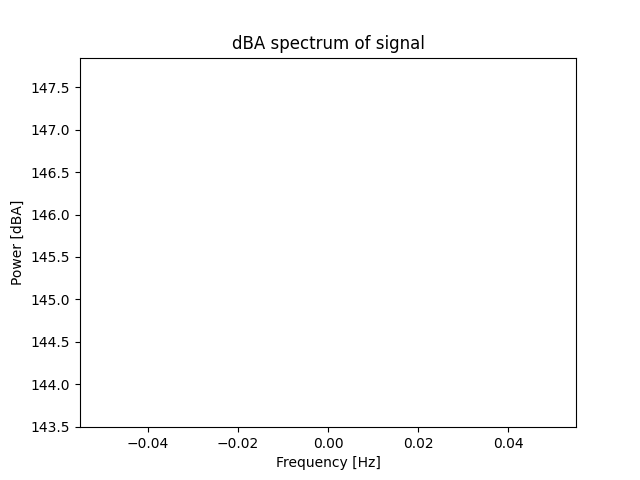
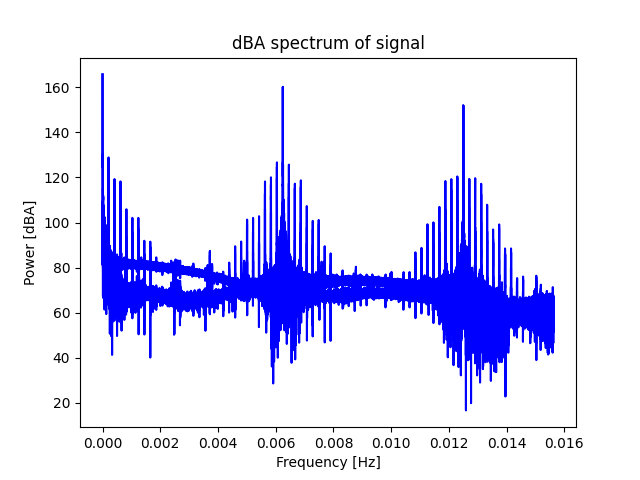
a

diff --git a/data_analyze_func.py b/data_analyze_func.py
@@ -21,7 +21,7 @@ Denne koden iterer gjennom alle lydfilene som finnes i en mappe og lagrer plotte
 v0 = 0.02
 directory = 'Opptaksfiler'
 directory_time = 'Opptaksfiler/OpptaksfilerTimer'
-antall_filer = 0
+
 antall_filer_time = 0
 L = 0
 L_eq = []
@@ -147,8 +147,10 @@ def plottName(name):
 
 
 def plot_frekvens():
+    antall_filer = 0
     for filename in arr_time:
-        if filename.endswith(".bin"): 
+        if filename.endswith(".bin"):
+            antall_filer += 1 
             print(os.path.join("./Opptaksfiler/OpptaksfilerTimer", filename))
             sample_period, data = raspi_import(os.path.join("./Opptaksfiler/OpptaksfilerTimer", filename))
             sample_period *= 1e-6  # change unit to micro seconds
@@ -160,6 +162,8 @@ def plot_frekvens():
             for i in range(len(freq)):
                 plt.stem(freq[i], dBA_plott[i])
             plt.show()
+
+            plt.savefig(plottName('graph' + str(antall_filer)))
         
             continue
         else:
@@ -171,8 +175,41 @@ plot_frekvens()
 
 
 
+def find_ekvivalens():
+    Leq_vec = []
+    time = []
+    t = 0
+    for filename in arr:
+        if filename.endswith(".bin"):
+            print(os.path.join("./Opptaksfiler", filename))
+            sample_period, data = raspi_import(os.path.join("./Opptaksfiler", filename))
+            sample_period *= 1e-6  # change unit to micro seconds
+            
+            tempLeq = ekvivalentniva_mv0(data, v0)
 
-''''''
+            Leq_vec.append(tempLeq)
+            t += 0.33
+            time.append(t)
+
+            continue
+        else:
+            continue
+    return Leq_vec, time
+
+def plott_ekvivalens():
+    L, t = find_ekvivalens()
+    plt.clf()
+    plt.title("Ekvivalentnivå")
+    plt.xlabel("Tid [s]")
+    plt.ylabel("Power [dB]")
+    plt.plot(t, L)
+  #  with open("fignummer.txt", "r") as file:
+  #          k = file.read()
+   # plt.savefig(os.path.abspath('/Users/mariabolme/Desktop/Elsys/elsys-prosjekt/Nettside/webkurs/elsysapp/static/Ekvivalentnivå/ekvivalentnivå'+ k))
+    plt.show()
+
+#plott_ekvivalens()
+
 
 def lagre():
     with open("fignummer.txt", "r") as file:
@@ -212,7 +249,7 @@ def lagre():
 
 
 
-
+'''
 for filename in arr:
     if filename.endswith(".bin"): 
         antall_filer += 1
@@ -230,7 +267,7 @@ for filename in arr:
             plt.stem(freq[i], dBA_plott[i])
         plt.show()
         
-        '''
+        
         if antall_filer == 1 or antall_filer == 2 or antall_filer == 3:
             plt.title("dBA spectrum of signal")
             plt.xlabel("Frequency [Hz]")
@@ -267,7 +304,8 @@ for filename in arr:
             plt.ylabel("Power [dBA]")
             plt.plot(freq, dBA_plott, color='pink')
             lagre()
-        '''
+        
+        
         #Ekvivalentnivå skal være for 20 minutter
         T = num_of_samples * sample_period
         L = ekvivalentniva_mv0(data, v0)
@@ -296,7 +334,7 @@ with open("fignummer.txt", "r") as file:
 plt.savefig(os.path.abspath('/Users/mariabolme/Desktop/Elsys/elsys-prosjekt/Nettside/webkurs/elsysapp/static/Ekvivalentnivå/ekvivalentnivå'+ k))
 plt.show()
 
-
+'''
 
 
 
